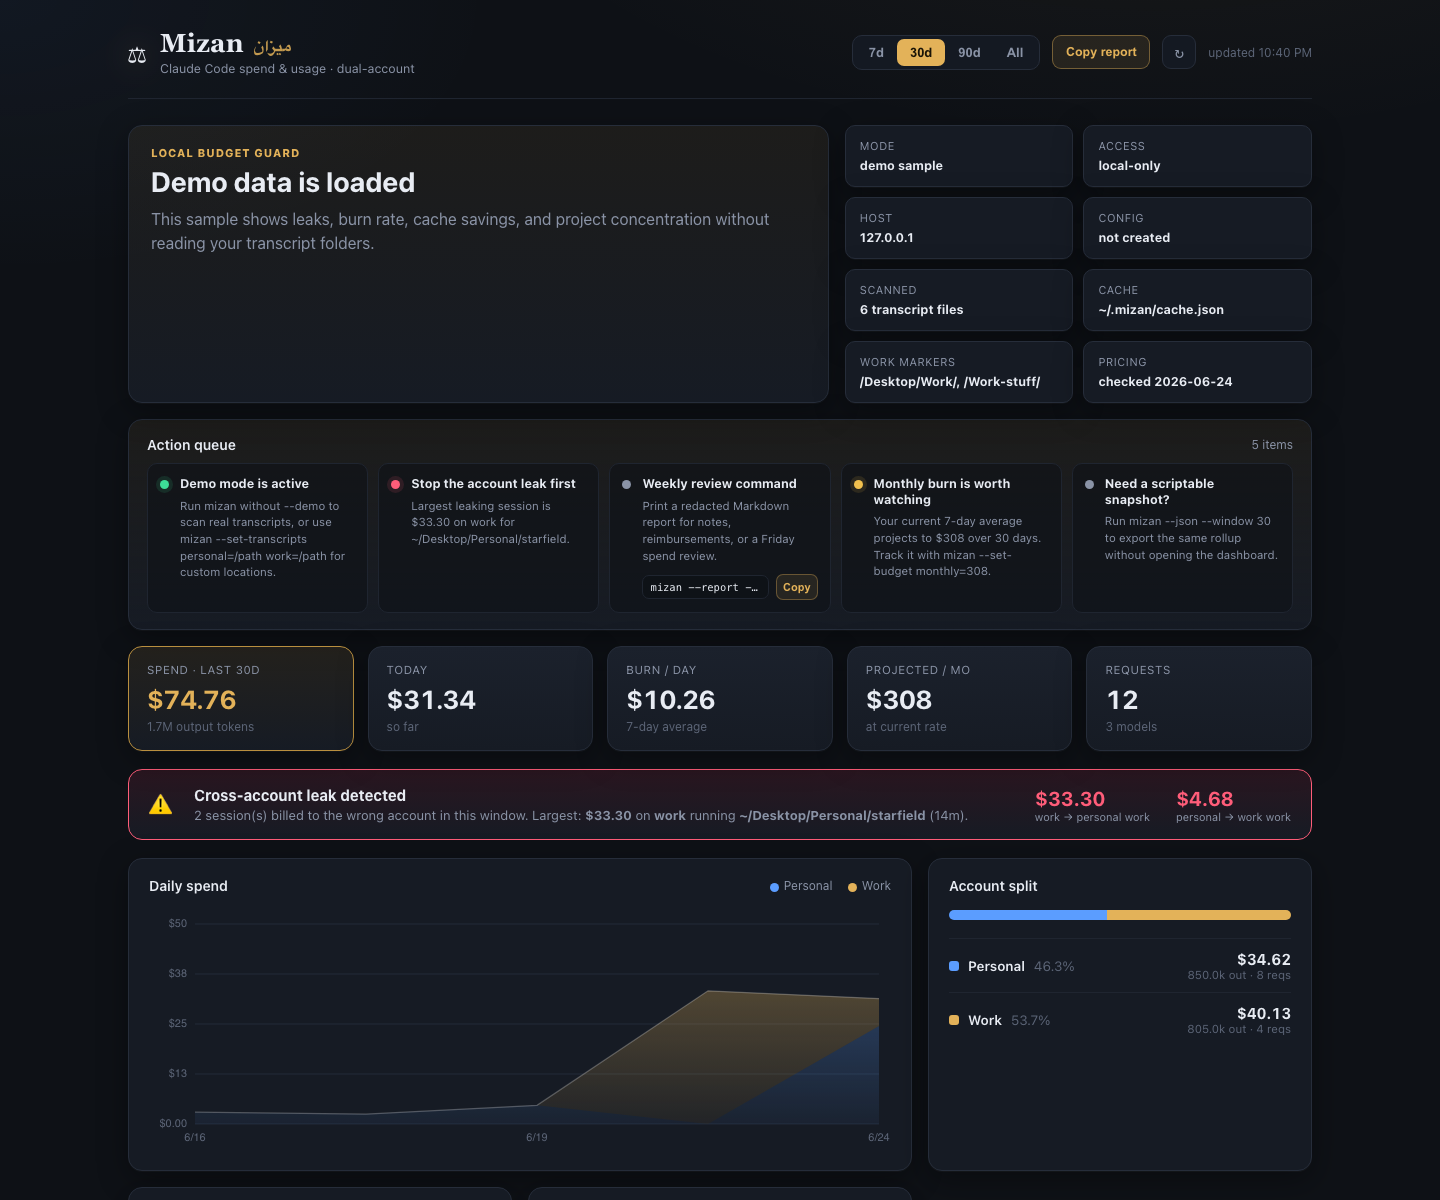
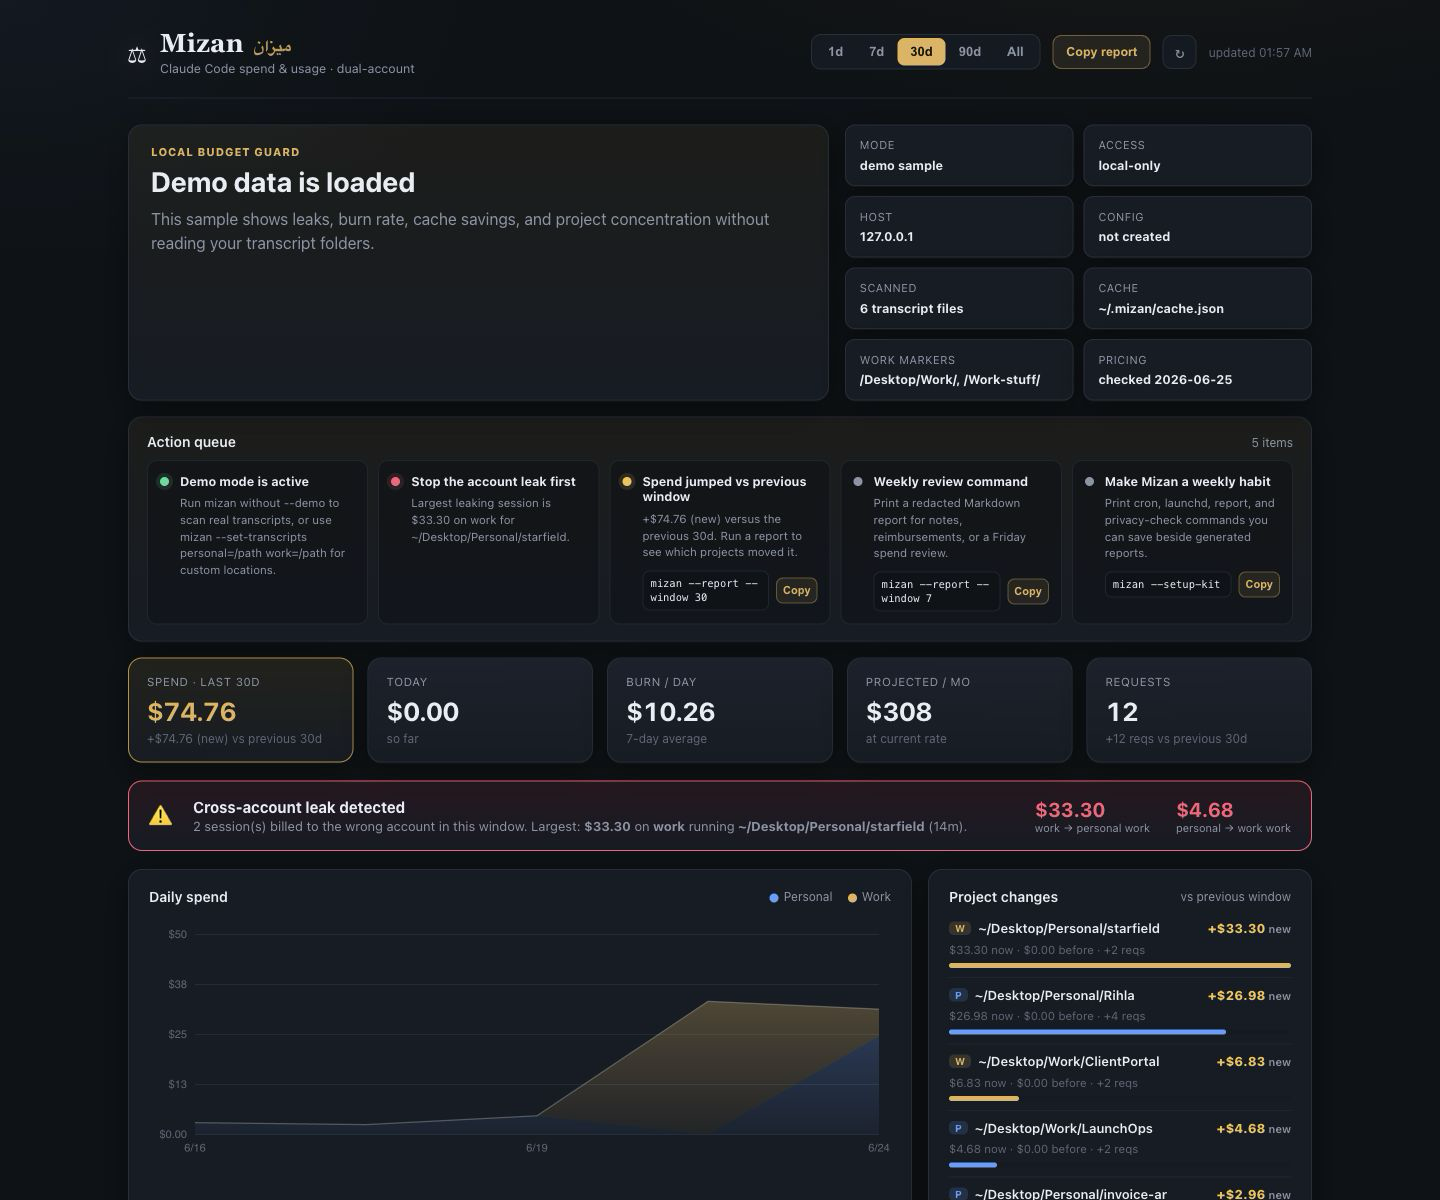
Refresh dashboard screenshot

diff --git a/test/repo-support.test.js b/test/repo-support.test.js
@@ -30,7 +30,7 @@ test("repo has public support and security docs", () => {
 test("package metadata points npm users to the public GitHub repo", () => {
   const pkg = JSON.parse(fs.readFileSync("package.json", "utf8"));
 
-  assert.equal(pkg.version, "0.1.18");
+  assert.equal(pkg.version, "0.1.19");
   assert.deepEqual(pkg.repository, {
     type: "git",
     url: "git+https://github.com/NasserAlbusaidi/mizan.git",
@@ -87,11 +87,11 @@ test("README quick start previews value before setup", () => {
 
   assert.match(
     quickStart,
-    /npm exec --yes --package github:NasserAlbusaidi\/mizan#v0\.1\.18 -- mizan --try/,
+    /npm exec --yes --package github:NasserAlbusaidi\/mizan#v0\.1\.19 -- mizan --try/,
   );
   assert.ok(
-    quickStart.indexOf("npm exec --yes --package github:NasserAlbusaidi/mizan#v0.1.18") <
-      quickStart.indexOf("npm install -g github:NasserAlbusaidi/mizan#v0.1.18"),
+    quickStart.indexOf("npm exec --yes --package github:NasserAlbusaidi/mizan#v0.1.19") <
+      quickStart.indexOf("npm install -g github:NasserAlbusaidi/mizan#v0.1.19"),
   );
   assert.ok(quickStart.indexOf("mizan --demo") < quickStart.indexOf("mizan --setup"));
   assert.match(quickStart, /Try a terminal demo without installing anything globally/);
@@ -124,14 +124,14 @@ test("README documents the versioned GitHub install paths before npm publish", (
   const readme = fs.readFileSync("README.md", "utf8");
   const quickStart = section(readme, "## Quick Start", "## CLI");
 
-  assert.match(quickStart, /npm install -g github:NasserAlbusaidi\/mizan#v0\.1\.18/);
+  assert.match(quickStart, /npm install -g github:NasserAlbusaidi\/mizan#v0\.1\.19/);
   assert.ok(
-    quickStart.indexOf("github:NasserAlbusaidi/mizan#v0.1.18") <
-      quickStart.indexOf("releases/download/v0.1.18"),
+    quickStart.indexOf("github:NasserAlbusaidi/mizan#v0.1.19") <
+      quickStart.indexOf("releases/download/v0.1.19"),
   );
   assert.match(
     readme,
-    /npm install -g https:\/\/github\.com\/NasserAlbusaidi\/mizan\/releases\/download\/v0\.1\.18\/nasseralbusaidi-mizan-0\.1\.18\.tgz/,
+    /npm install -g https:\/\/github\.com\/NasserAlbusaidi\/mizan\/releases\/download\/v0\.1\.19\/nasseralbusaidi-mizan-0\.1\.19\.tgz/,
   );
   assert.match(readme, /npm package is prepared but not published yet/i);
   assert.match(readme, /npx @nasseralbusaidi\/mizan.*after npm publish/is);
@@ -160,12 +160,12 @@ test("launch kit gives a practical public launch script", () => {
   assert.match(kit, /Copy report/);
   assert.match(
     kit,
-    /npm exec --yes --package github:NasserAlbusaidi\/mizan#v0\.1\.18 -- mizan --try/,
+    /npm exec --yes --package github:NasserAlbusaidi\/mizan#v0\.1\.19 -- mizan --try/,
   );
-  assert.match(kit, /npm install -g github:NasserAlbusaidi\/mizan#v0\.1\.18/);
+  assert.match(kit, /npm install -g github:NasserAlbusaidi\/mizan#v0\.1\.19/);
   assert.match(
     kit,
-    /npm install -g https:\/\/github\.com\/NasserAlbusaidi\/mizan\/releases\/download\/v0\.1\.18\/nasseralbusaidi-mizan-0\.1\.18\.tgz/,
+    /npm install -g https:\/\/github\.com\/NasserAlbusaidi\/mizan\/releases\/download\/v0\.1\.19\/nasseralbusaidi-mizan-0\.1\.19\.tgz/,
   );
   assert.match(kit, /Show HN/);
   assert.match(kit, /npm package is prepared but not published yet/i);

diff --git a/test/readme-assets.test.js b/test/readme-assets.test.js
@@ -5,8 +5,12 @@ import fs from "node:fs";
 test("README references the packaged dashboard screenshot", () => {
   const readme = fs.readFileSync("README.md", "utf8");
   const pkg = JSON.parse(fs.readFileSync("package.json", "utf8"));
+  const screenshot = fs.readFileSync("assets/mizan-dashboard-demo.png");
 
   assert.match(readme, /!\[Mizan dashboard demo\]\(assets\/mizan-dashboard-demo\.png\)/);
   assert.ok(fs.existsSync("assets/mizan-dashboard-demo.png"));
+  assert.equal(screenshot.subarray(0, 8).toString("hex"), "89504e470d0a1a0a");
+  assert.ok(screenshot.readUInt32BE(16) >= 1200);
+  assert.ok(screenshot.readUInt32BE(20) >= 900);
   assert.ok(pkg.files.includes("assets"));
 });

diff --git a/test/cli-support-bundle.test.js b/test/cli-support-bundle.test.js
@@ -26,7 +26,7 @@ test("--support-bundle prints redacted Markdown diagnostics", () => {
 
   assert.equal(result.status, 0);
   assert.match(result.stdout, /^# Mizan Support Bundle/m);
-  assert.match(result.stdout, /Mizan: @nasseralbusaidi\/mizan 0\.1\.18/);
+  assert.match(result.stdout, /Mizan: @nasseralbusaidi\/mizan 0\.1\.19/);
   assert.match(result.stdout, /## Doctor/m);
   assert.match(result.stdout, /~\/\.claude\/projects/);
   assert.match(result.stdout, /No raw transcript lines are included/);

diff --git a/docs/LAUNCH_KIT.md b/docs/LAUNCH_KIT.md
@@ -32,13 +32,13 @@ Keep the recording tight. The promise is not "analytics platform"; it is
 No-global-install terminal demo:
 
 ```bash
-npm exec --yes --package github:NasserAlbusaidi/mizan#v0.1.18 -- mizan --try
+npm exec --yes --package github:NasserAlbusaidi/mizan#v0.1.19 -- mizan --try
 ```
 
 Current install path before npm publish:
 
 ```bash
-npm install -g github:NasserAlbusaidi/mizan#v0.1.18
+npm install -g github:NasserAlbusaidi/mizan#v0.1.19
 mizan --demo
 mizan --setup
 mizan
@@ -48,13 +48,13 @@ mizan --feedback
 Fallback release tarball:
 
 ```bash
-npm install -g https://github.com/NasserAlbusaidi/mizan/releases/download/v0.1.18/nasseralbusaidi-mizan-0.1.18.tgz
+npm install -g https://github.com/NasserAlbusaidi/mizan/releases/download/v0.1.19/nasseralbusaidi-mizan-0.1.19.tgz
 ```
 
 The npm package is prepared but not published yet. The `npm exec --package
 github:...` demo runs from the tagged GitHub release; do not claim `npx
 @nasseralbusaidi/mizan` works from the npm registry until `npm view
-@nasseralbusaidi/mizan version` returns `0.1.18`.
+@nasseralbusaidi/mizan version` returns `0.1.19`.
 
 ## Short post
 
@@ -67,7 +67,7 @@ projects, or personal quota spent on work.
 
 No account. No upload. Local-only dashboard.
 
-Release: https://github.com/NasserAlbusaidi/mizan/releases/tag/v0.1.18
+Release: https://github.com/NasserAlbusaidi/mizan/releases/tag/v0.1.19
 
 ## Longer post
 
@@ -85,7 +85,7 @@ It is a local-first CLI/dashboard for Claude Code usage:
 - Runs without runtime dependencies or uploads
 
 The first version is a GitHub release while npm publish waits on auth:
-https://github.com/NasserAlbusaidi/mizan/releases/tag/v0.1.18
+https://github.com/NasserAlbusaidi/mizan/releases/tag/v0.1.19
 
 If you run separate Claude configs or need a weekly usage note, try it. If
 anything is confusing, `mizan --feedback` prints the issue link and the redacted
@@ -113,7 +113,7 @@ It is intentionally local: no account, no upload, no hosted dashboard. The repor
 output redacts home paths for weekly notes or reimbursement logs.
 
 The first release is on GitHub while npm publishing waits on auth:
-https://github.com/NasserAlbusaidi/mizan/releases/tag/v0.1.18
+https://github.com/NasserAlbusaidi/mizan/releases/tag/v0.1.19
 ```
 
 Do not post to Show HN until the README, screenshot, release asset, and install

diff --git a/README.md b/README.md
@@ -33,19 +33,19 @@ client, employer, or reimbursement log.
 Try a terminal demo without installing anything globally:
 
 ```bash
-npm exec --yes --package github:NasserAlbusaidi/mizan#v0.1.18 -- mizan --try
+npm exec --yes --package github:NasserAlbusaidi/mizan#v0.1.19 -- mizan --try
 ```
 
 Install the current GitHub release from its tag:
 
 ```bash
-npm install -g github:NasserAlbusaidi/mizan#v0.1.18
+npm install -g github:NasserAlbusaidi/mizan#v0.1.19
 ```
 
 If your npm client cannot install from GitHub tags, use the release tarball:
 
 ```bash
-npm install -g https://github.com/NasserAlbusaidi/mizan/releases/download/v0.1.18/nasseralbusaidi-mizan-0.1.18.tgz
+npm install -g https://github.com/NasserAlbusaidi/mizan/releases/download/v0.1.19/nasseralbusaidi-mizan-0.1.19.tgz
 ```
 
 Preview the dashboard without reading local transcripts:

diff --git a/CHANGELOG.md b/CHANGELOG.md
@@ -1,5 +1,10 @@
 # Changelog
 
+## 0.1.19
+
+- Refreshes the packaged dashboard screenshot so the README and launch materials
+  show the current Project changes panel.
+
 ## 0.1.18
 
 - Adds `mizan --feedback`, a safe issue-reporting guide that points users to